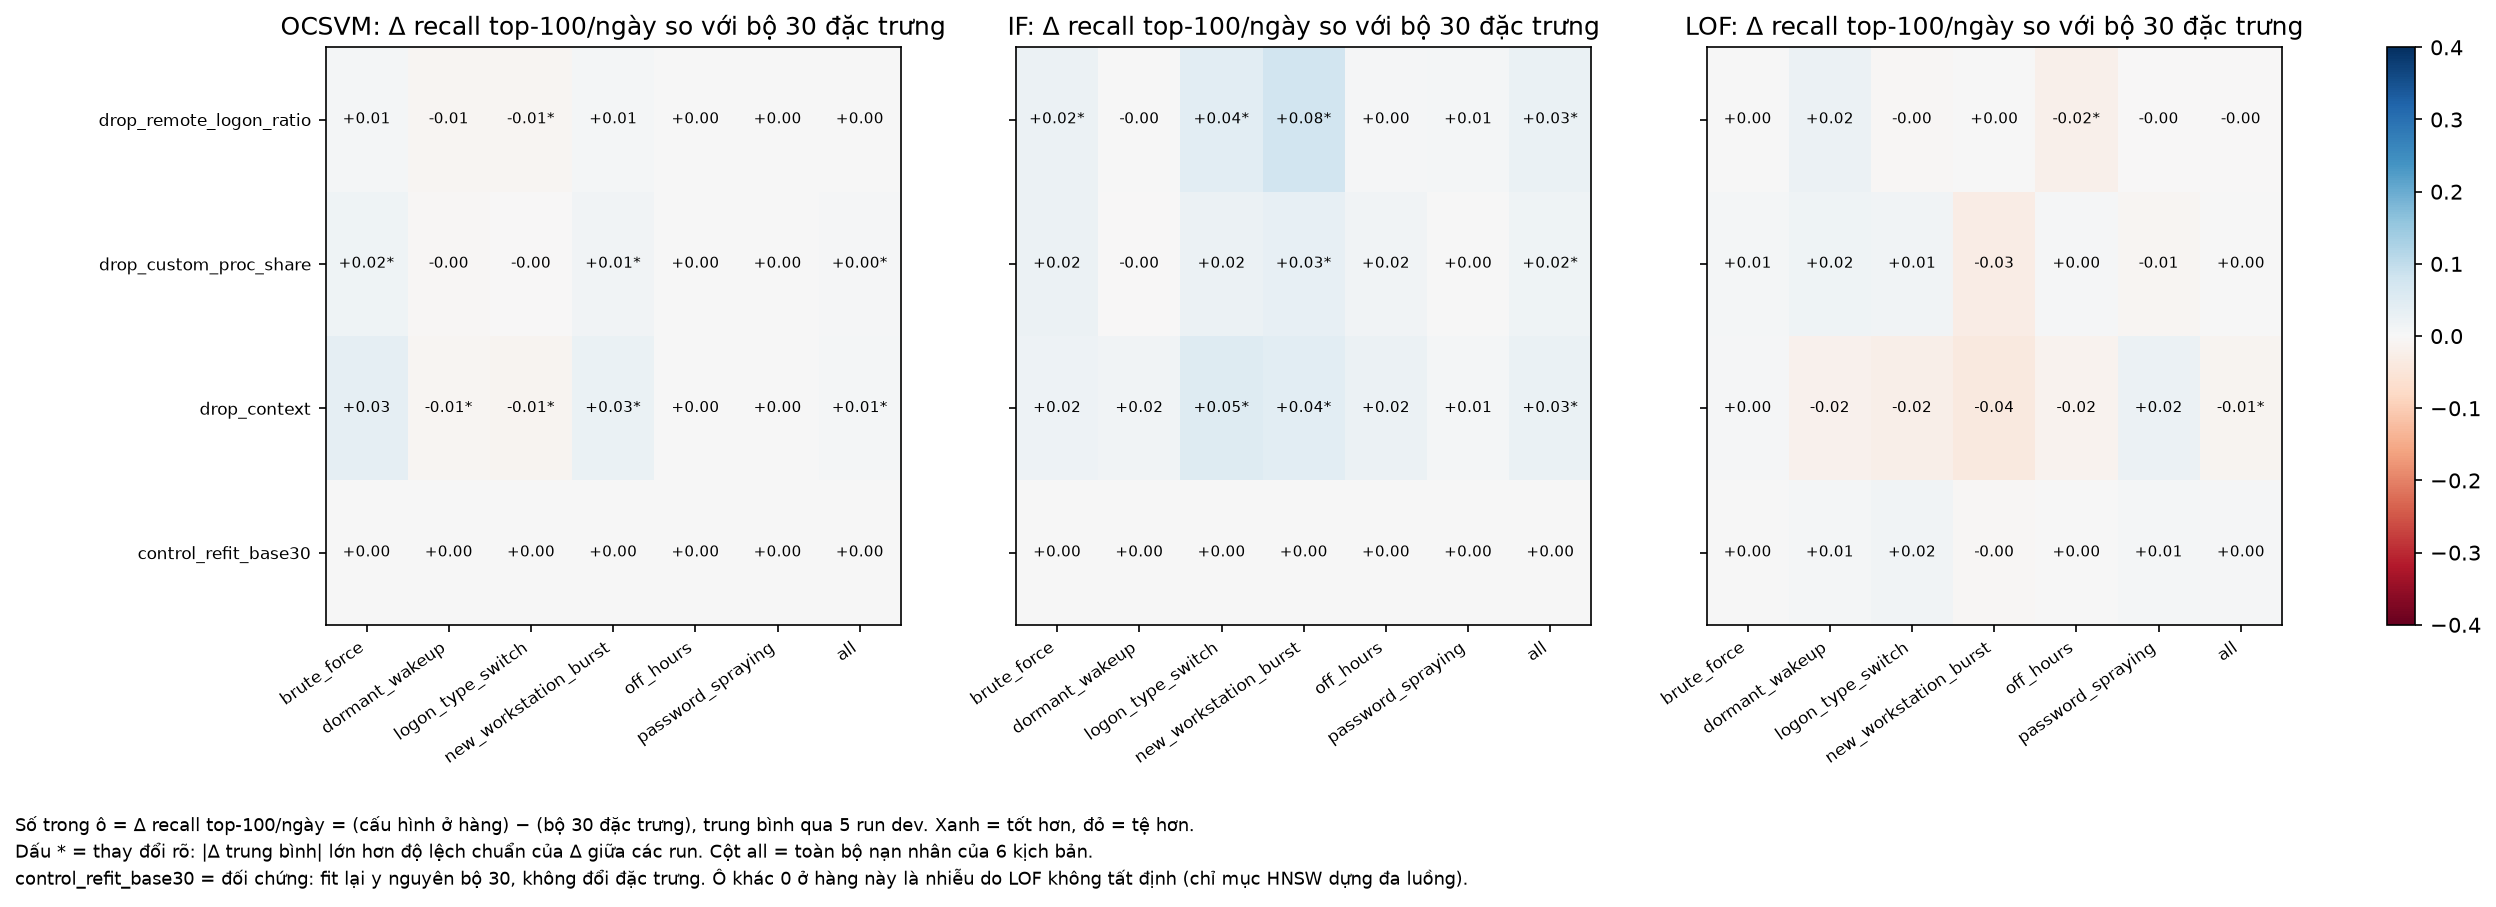
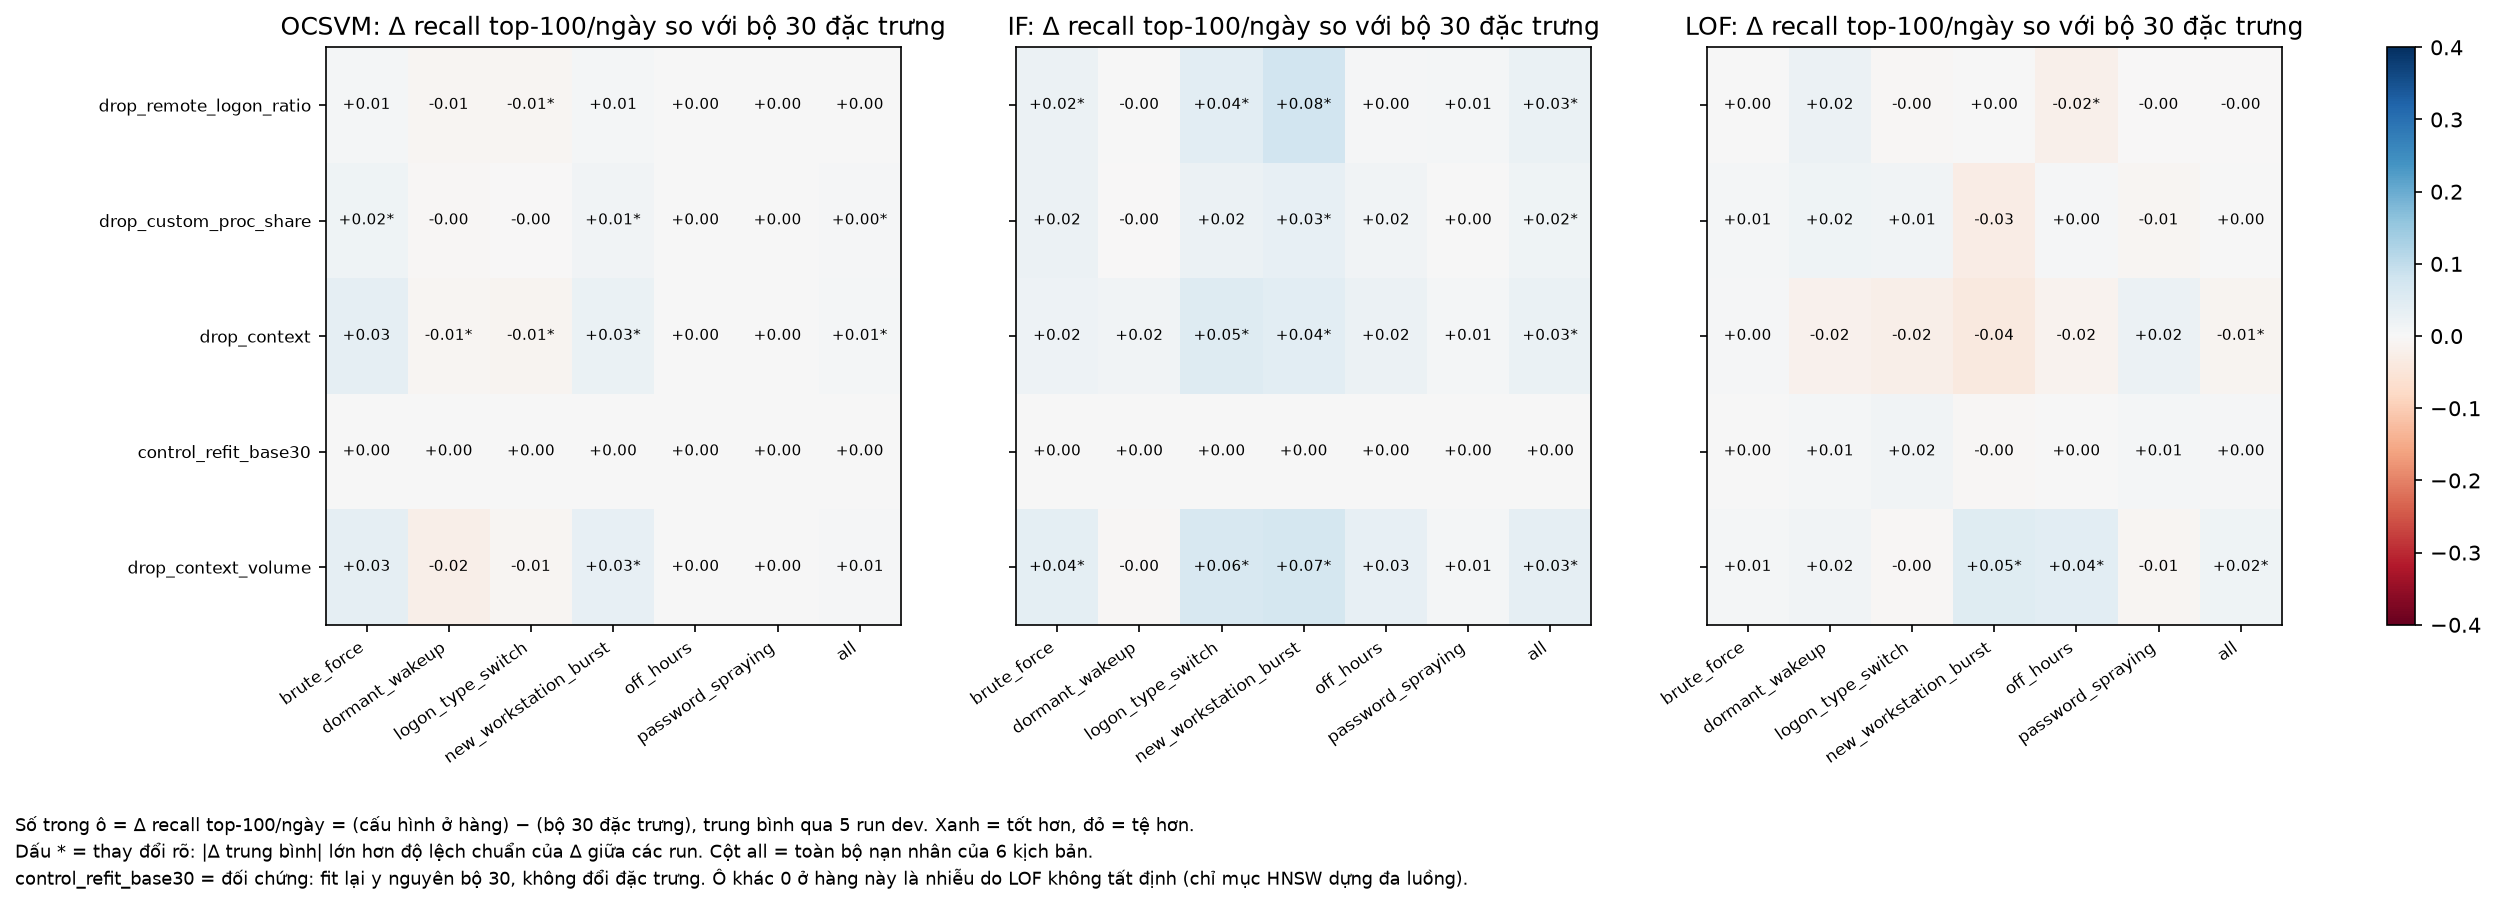
feat(analysis): final check on dropping the last volume feature and choosing the shared 28-feature set

diff --git a/scripts/evaluation/feature_ablation.py b/scripts/evaluation/feature_ablation.py
@@ -108,6 +108,9 @@ def context_configs(origin: dict) -> dict:
     for f in rest:
         cfgs[f"drop_{f}"] = base + [f]
     cfgs["drop_context"] = base + rest
+    # bộ 28 bỏ nốt đặc trưng volume cuối cùng còn giữ (log_total_logons, volume_robust_z_7d đã bỏ ở bộ 30)
+    vol = [f for f in ABLATION_GROUPS["volume"] if f not in base]
+    cfgs["drop_context_volume"] = base + rest + vol
     cfgs[REPEAT] = list(base)
     return cfgs
 

diff --git a/reports/week5/kiem_tra_test_K_va_context.md b/reports/week5/kiem_tra_test_K_va_context.md
@@ -115,6 +115,33 @@ Chạy theo yêu cầu: K = 15 (tốt nhất cho OCSVM trên dev), K = 18 (tốt
 1. Thêm `remote_logon_ratio`, `custom_proc_share` vào `drop_features` trong `configs/benchmark_grid_test_30f.yaml` (hoặc tạo cấu hình lưới mới cho bộ 28) và chạy lại lưới test chính thức. Không đổi `configs/feature_schema.yaml`.
 2. Cập nhật báo cáo tuần 5 (mục 4.2, 4.3) và slide từ "bộ 30" sang "bộ 28".
 
+## 4b. Kiểm tra cuối: nhóm volume và chọn giữa bộ của OCSVM và bộ của IF
+
+**Volume.** Bộ 30 đã bỏ `log_total_logons` và `volume_robust_z_7d`; chỉ còn `delta_mean_count_7d`. Bỏ nốt nó khỏi bộ 28 (còn 27), 5 run dev, hiệu ghép cặp so với bộ 28:
+
+| | OCSVM | IF | LOF |
+|---|---|---|---|
+| ΔRecall top-100/ngày | −0,001 ± 0,003 | +0,008 ± 0,015 | +0,028 ± 0,024 |
+| ΔPR-AUC | +0,000 ± 0,001 | +0,004 ± 0,013 | +0,010 ± 0,021 |
+| ΔRecall dormant_wakeup | −0,017 | −0,020 | +0,033 |
+
+Không mô hình nào thay đổi rõ (mọi |Δ| < 1 std; LOF dao động trong nhiễu). Bỏ không có lợi, nhưng làm OCSVM và IF giảm nhẹ ở dormant_wakeup, kịch bản yếu nhất và đúng là kịch bản SHAP cho thấy đặc trưng này đóng góp (top-5 ở cả 3 run). **Giữ `delta_mean_count_7d`.** Không đưa bộ 27 lên test.
+
+**Bộ tốt cho OCSVM hay bộ tốt cho IF?** Recall top-100/ngày (PR-AUC trong ngoặc), TB 5 run:
+
+| Bộ | Khối | OCSVM | IF | LOF |
+|---|---|---|---|---|
+| 30 | dev | 0,380 (0,230) | 0,228 (0,096) | 0,200 (0,076) |
+| **28** | dev | **0,388 (0,235)** | 0,255 (**0,132**) | 0,189 (0,070) |
+| 22 (K = 18) | dev | 0,383 (0,227) | **0,264** (0,128) | 0,170 (0,062) |
+| 30 | test | 0,376 (0,192) | 0,209 (0,089) | 0,145 (0,058) |
+| **28** | test | **0,381 (0,196)** | 0,240 (**0,120**) | 0,155 (0,061) |
+| 22 (K = 18) | test | 0,373 (0,189) | **0,242** (0,111) | **0,174 (0,072)** |
+
+Bộ 28 không phải thỏa hiệp: nó **tốt nhất cho OCSVM ở cả dev và test**, và cho IF gần như toàn bộ lợi ích của bộ 22 (test: recall 0,240 so với 0,242; PR-AUC 0,120 so với 0,111). Chỉ LOF trên test thích bộ 22 hơn, nhưng trên dev thì ngược lại. **Chọn bộ 28 làm bộ chung**; không cần bộ riêng cho IF.
+
+📁 Bộ 27: `experiments/ablation/context/` (cấu hình `drop_context_volume`).
+
 ## 5. Hạn chế
 
 - Mỗi khối chỉ có 5 run, model seed khác nhau theo run; std của hiệu ghép cặp còn lớn so với các mức Δ nhỏ (±0,005).
